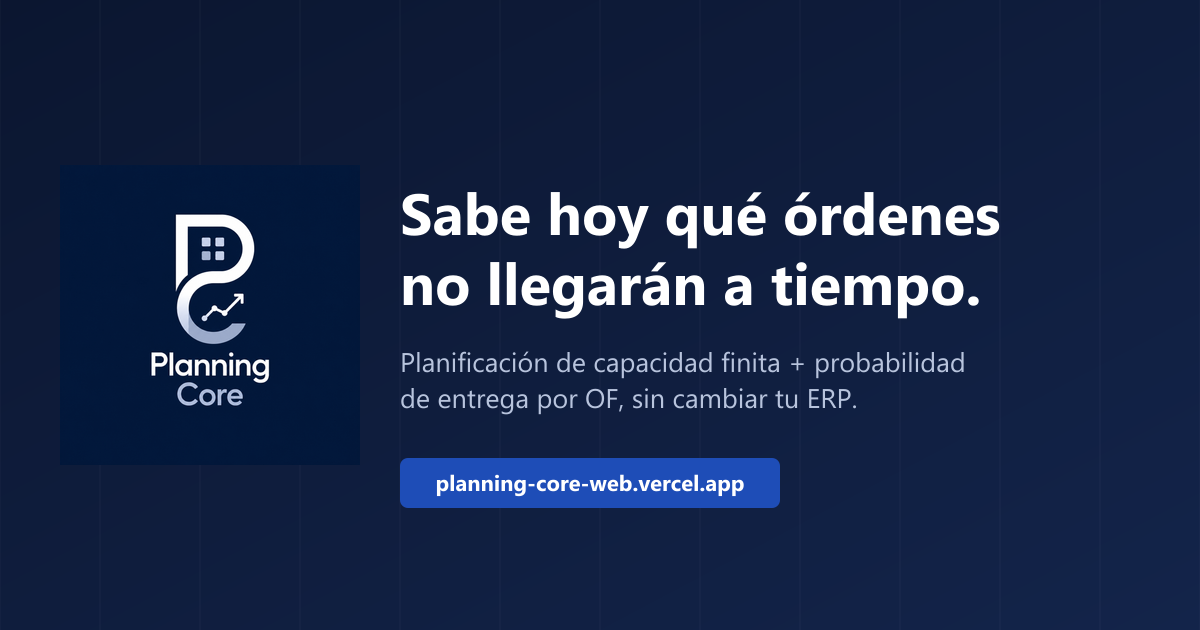
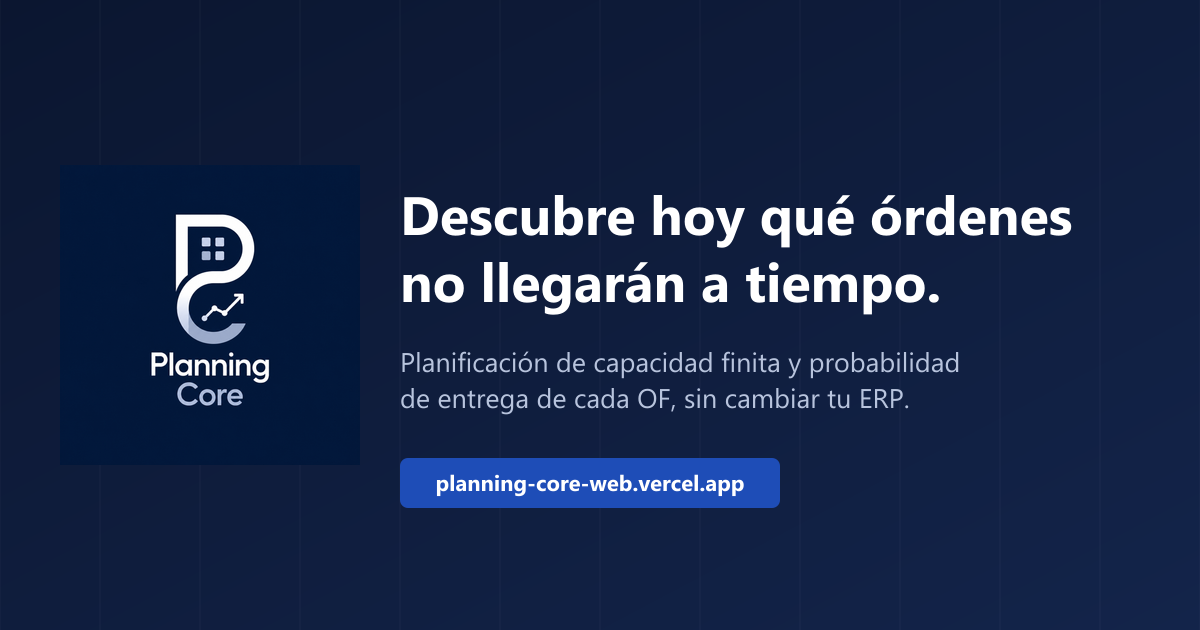
Marketing copy: grammar and voice pass (ES + EN)
One voice (tú), imperative step titles, full sentences with an explicit
subject where Planning Core is the one acting (no more «validamos…» next
to «defines…», or «lees el Excel» for what the product reads). Headline
«Descubre hoy…» (avoids reading «Sabe» as third person); social card and
its alt text regenerated to match.

Changed region(s): [[0.3392, 0.3016, 0.8942, 0.5127], [0.4317, 0.5429, 0.8017, 0.6635]]

diff --git a/src/data/i18n.js b/src/data/i18n.js
@@ -44,8 +44,8 @@ export const EN = {
   'home.proof.3': `with its probability and its cause`,
   'prod.f2.m.adh': `Operations on schedule`,
   'home.hero.badge':   `Finite-capacity planning + Monte Carlo`,
-  'home.hero.title':   `Know today which orders will ship late.<br/><span class="hero__accent">And why.</span>`,
-  'home.hero.sub':     `Planning Core plans your manufacturing orders with their real routings, calendars and maintenance, simulates hundreds of disruptions on the plan and gives you the <span class="hero__relief">on-time probability of every order</span>, with the cause of every delay. On top of your ERP, starting from your MRP export.`,
+  'home.hero.title':   `Find out today which orders will ship late.<br/><span class="hero__accent">And why.</span>`,
+  'home.hero.sub':     `Planning Core plans your manufacturing orders with their real routings, calendars and maintenance, simulates hundreds of disruptions on the plan and gives you the <span class="hero__relief">on-time probability of every order</span>, with the cause of every delay. It runs on top of your ERP and starts from your MRP export.`,
   'home.hero.cta1':    `Book a demo with my data →`,
   'home.hero.cta2':    `See the simulation in action`,
   'home.hero.trust1':  `Probability measured, not assumed`,
@@ -69,15 +69,15 @@ export const EN = {
   'home.proof.sims':      'disruptions simulated per plan',
 
   'home.how.label': 'How it works',
-  'home.how.title': `A plan that explains,<br/>not just draws`,
+  'home.how.title': `A plan that explains,<br/>not one that just draws`,
   'home.how.sub':   `Planning Core works on top of your ERP: it reads your orders, plans with the real capacity of every resource and measures the risk before you commit to a date.`,
   'home.steps.0.title': `Load your MRP and routings`,
-  'home.steps.0.desc':  `Upload your MRP export: fields, units and dates are validated. You define resources, calendars and each part’s routing (OP10, OP20…) without code.`,
-  'home.steps.1.title': `Finite-capacity plan`,
-  'home.steps.1.desc':  `Every operation on its resource, respecting sequence, calendar, maintenance and active disruptions. Every delay comes with its cause.`,
+  'home.steps.0.desc':  `Upload your MRP export and Planning Core checks fields, units and dates. Then you define resources, calendars and each part’s routing (OP10, OP20…) without writing code.`,
+  'home.steps.1.title': `Plan with finite capacity`,
+  'home.steps.1.desc':  `Planning Core places every operation on its resource, respecting sequence, calendar, maintenance and active disruptions, and explains the cause of every delay.`,
   'home.steps.2.title': `Simulate hundreds of disruptions`,
-  'home.steps.2.desc':  `Variable durations and random breakdowns, calibrated on your history: the on-time probability of every order and the resource that holds it back the most.`,
-  'home.steps.3.title': `Decide and share`,
+  'home.steps.2.desc':  `Planning Core reruns the plan with variable durations and random breakdowns, calibrated on your history, and gives you the on-time probability of every order and the resource that holds it back most.`,
+  'home.steps.3.title': `Decide and share the plan`,
   'home.steps.3.desc':  `Compare scenarios, ask the copilot about your own data and export the plan to Excel for the shop floor.`,
 
   'home.stress.label':  'Stress-test it',
@@ -92,7 +92,7 @@ export const EN = {
   'home.stress.idle':         'Plan published · ready',
   'home.stress.held':         'Absorbed',
   'home.stress.broke':        `Schedule broken`,
-  'home.stress.caption':      `Sample data. "On schedule" = operations that start in their published shift, over hundreds of simulated scenarios. With your data it is computed on your real plant.`,
+  'home.stress.caption':      `Sample data. "On schedule" is the share of operations that start in their published shift across hundreds of simulated scenarios. With your data, it is computed on your real plant.`,
   'home.stress.cta':          'See how it compares to the usual →',
 
   'home.sectors.label': 'Sectors',
@@ -103,13 +103,13 @@ export const EN = {
   'home.value.title': 'Not another ERP.<br/>The missing layer.',
   'home.value.sub':   `Your ERP records what happened. Planning Core decides what to make and when, with real capacity, on top of the system you already have.`,
   'home.value.0.title': `Every delay, with its cause`,
-  'home.value.0.desc':  `Not just "late": which operation waits, on which resource and behind which other order.`,
+  'home.value.0.desc':  `It doesn’t stop at "late": it tells you which operation waits, on which resource and behind which other order.`,
   'home.value.1.title': `Probability measured, not assumed`,
   'home.value.1.desc':  `Every order comes with its on-time probability and confidence interval: you know which date you can commit to before you give it.`,
   'home.value.2.title': `Composites logic, built in`,
-  'home.value.2.desc':  `Autoclave, NDT, layup and maintenance windows, with the variability of each kind of operation.`,
+  'home.value.2.desc':  `It models the autoclave, NDT, layup and maintenance windows with the variability of each kind of operation.`,
   'home.value.3.title': `Without touching your ERP`,
-  'home.value.3.desc':  `No migration: read the Excel your ERP already exports and hand the plan back in Excel.`,
+  'home.value.3.desc':  `No migration: Planning Core reads the Excel your ERP already exports and hands the plan back to you in Excel.`,
 
   'home.comp.withoutLabel': 'Without Planning Core',
   'home.comp.withLabel':    'With Planning Core',
@@ -120,8 +120,8 @@ export const EN = {
   'home.comp.old.4': "The plan lives in the shift manager's head",
   'home.comp.new.0': `One finite-capacity plan for the whole team`,
   'home.comp.new.1': `Orders at risk flagged before you commit the date`,
-  'home.comp.new.2': `Replan in one click when orders or a machine change`,
-  'home.comp.new.3': `On-time probability per order, with its cause`,
+  'home.comp.new.2': `One-click replanning when orders or a machine change`,
+  'home.comp.new.3': `On-time probability for every order, with the cause of every delay`,
   'home.comp.new.4': `The plan exported to Excel for the shop floor`,
 
   'home.pilot.label': '12-week pilot',
@@ -163,7 +163,7 @@ export const EN = {
 
   'prod.f3.label':       'Smart replanning',
   'prod.f3.title':       'Reality changes.<br/>The plan too.',
-  'prod.f3.desc':        `Breakdown, rush order or a new order: recompute the plan in one click with current data and see the impact on every order before committing dates.`,
+  'prod.f3.desc':        `If there is a breakdown, a rush order or a new order, you recompute the plan in one click with current data and see the impact on every order before committing dates.`,
   'prod.f3.li.0':        'One-click replanning',
   'prod.f3.li.1':        `Dated disruptions block the affected resource`,
   'prod.f3.li.2':        `Saved, reproducible simulations`,
